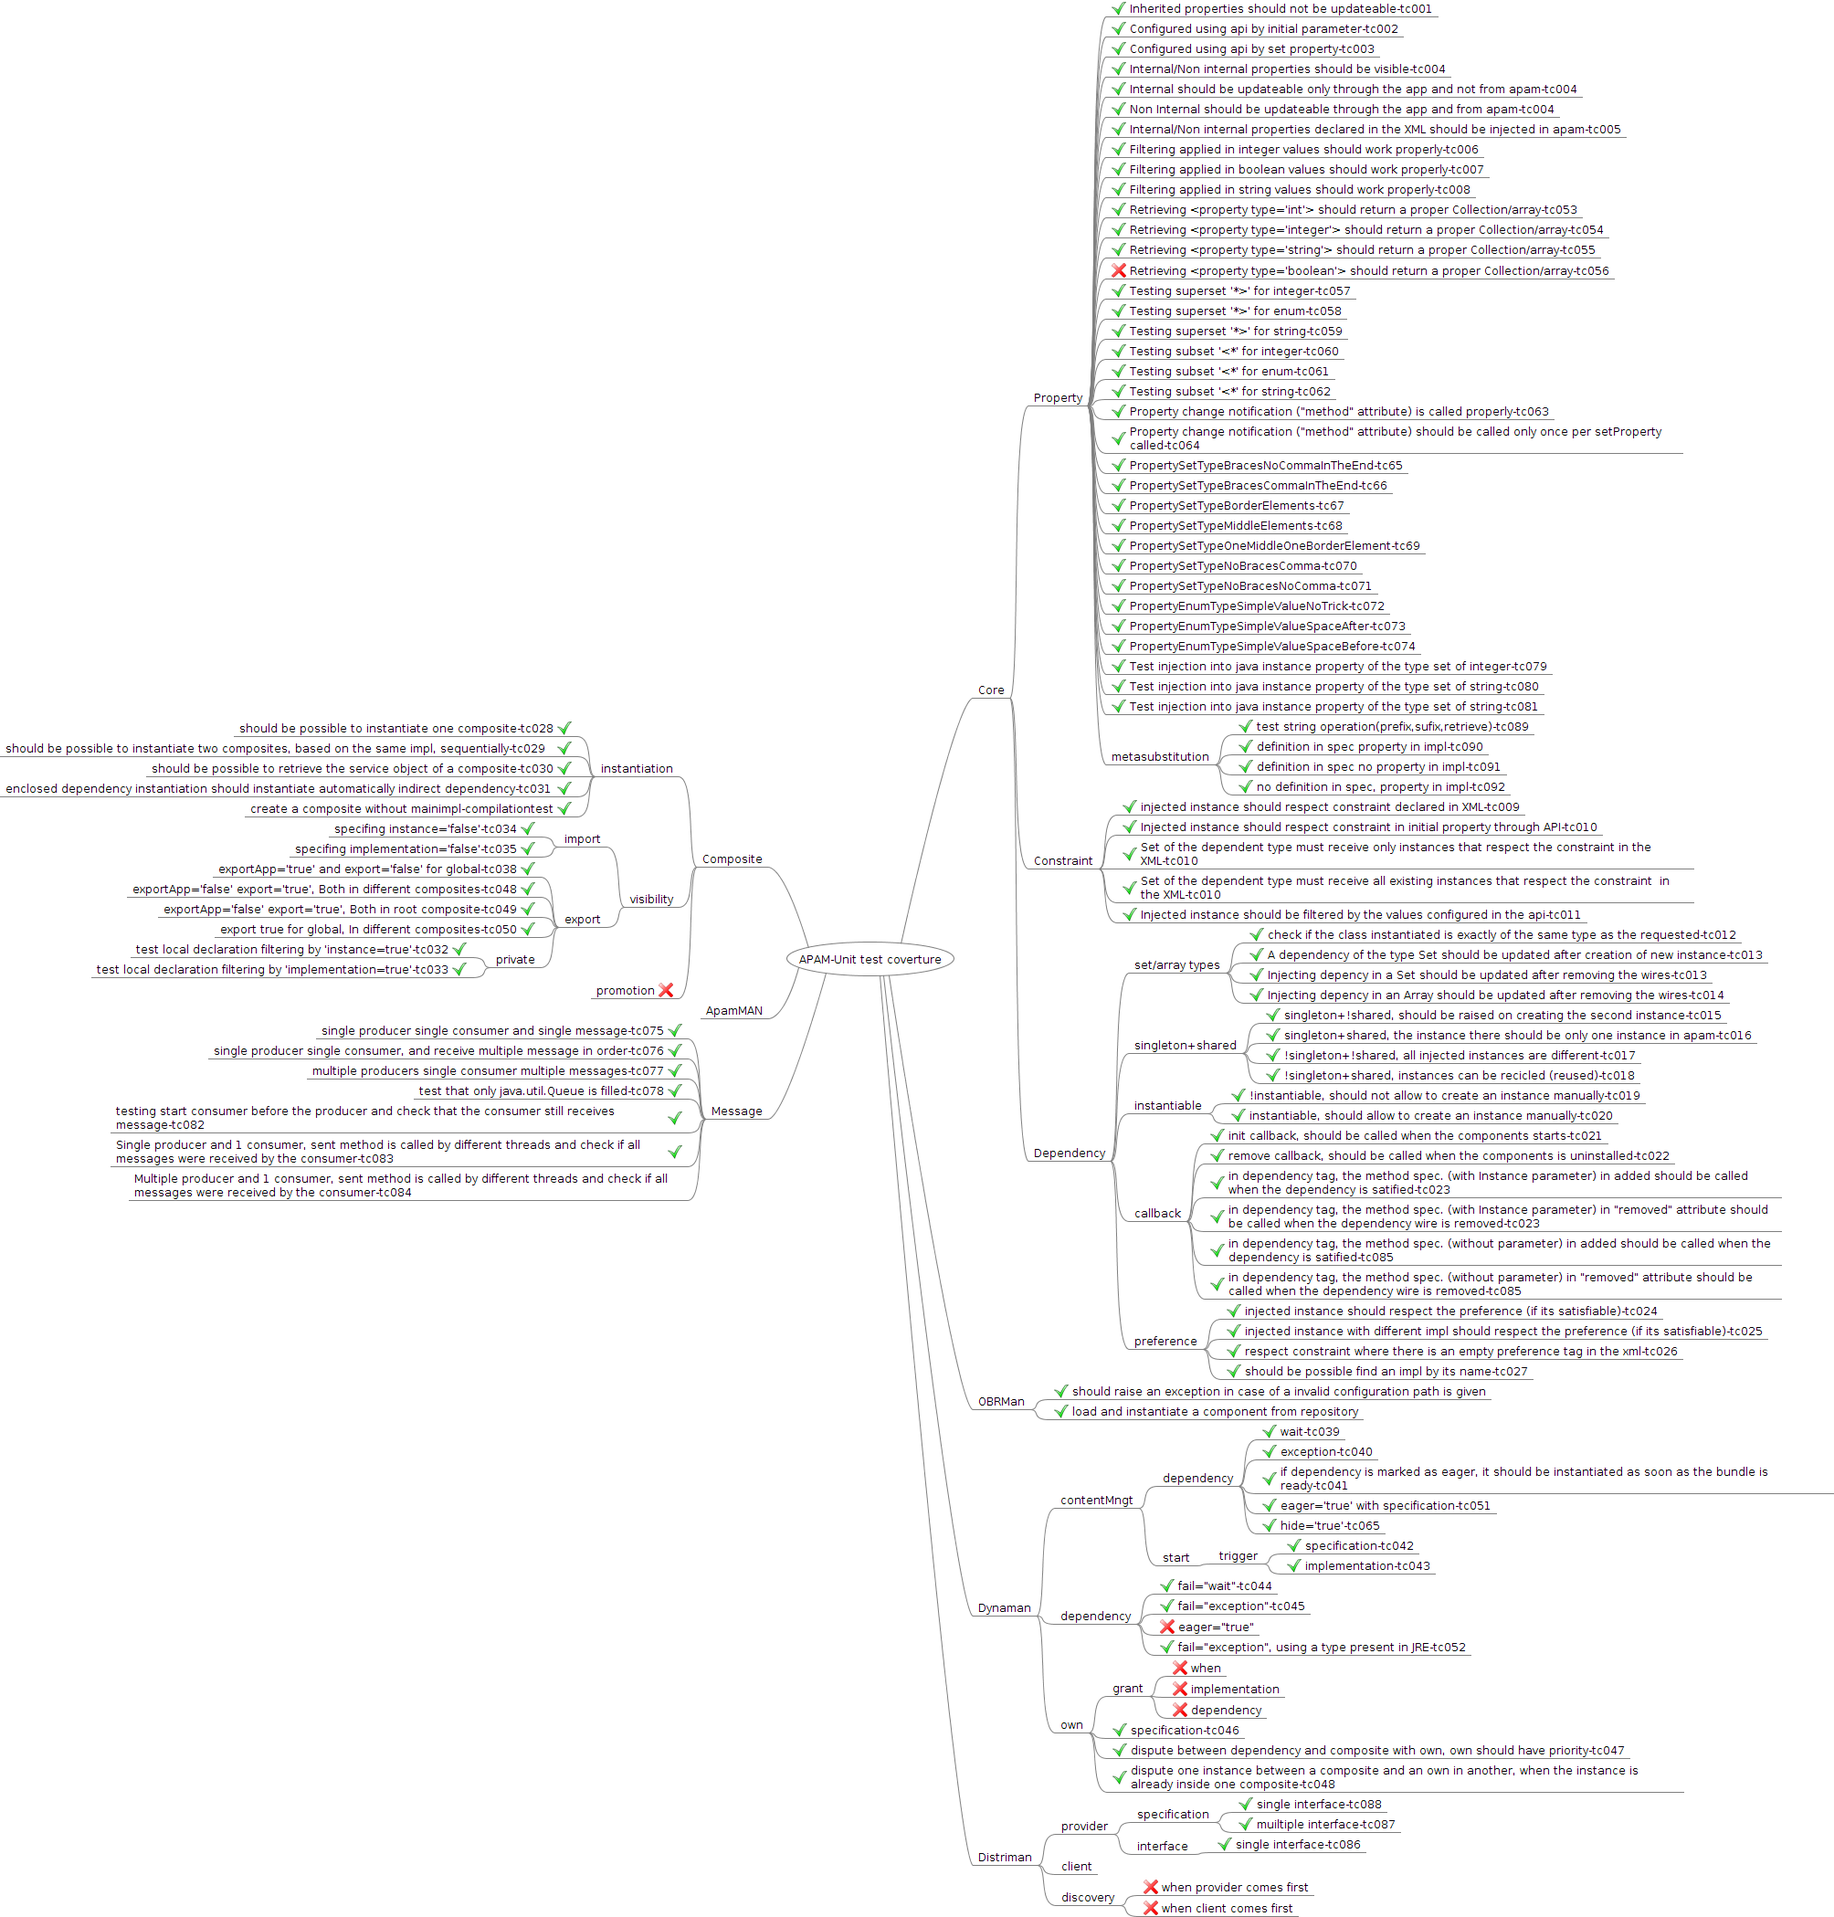
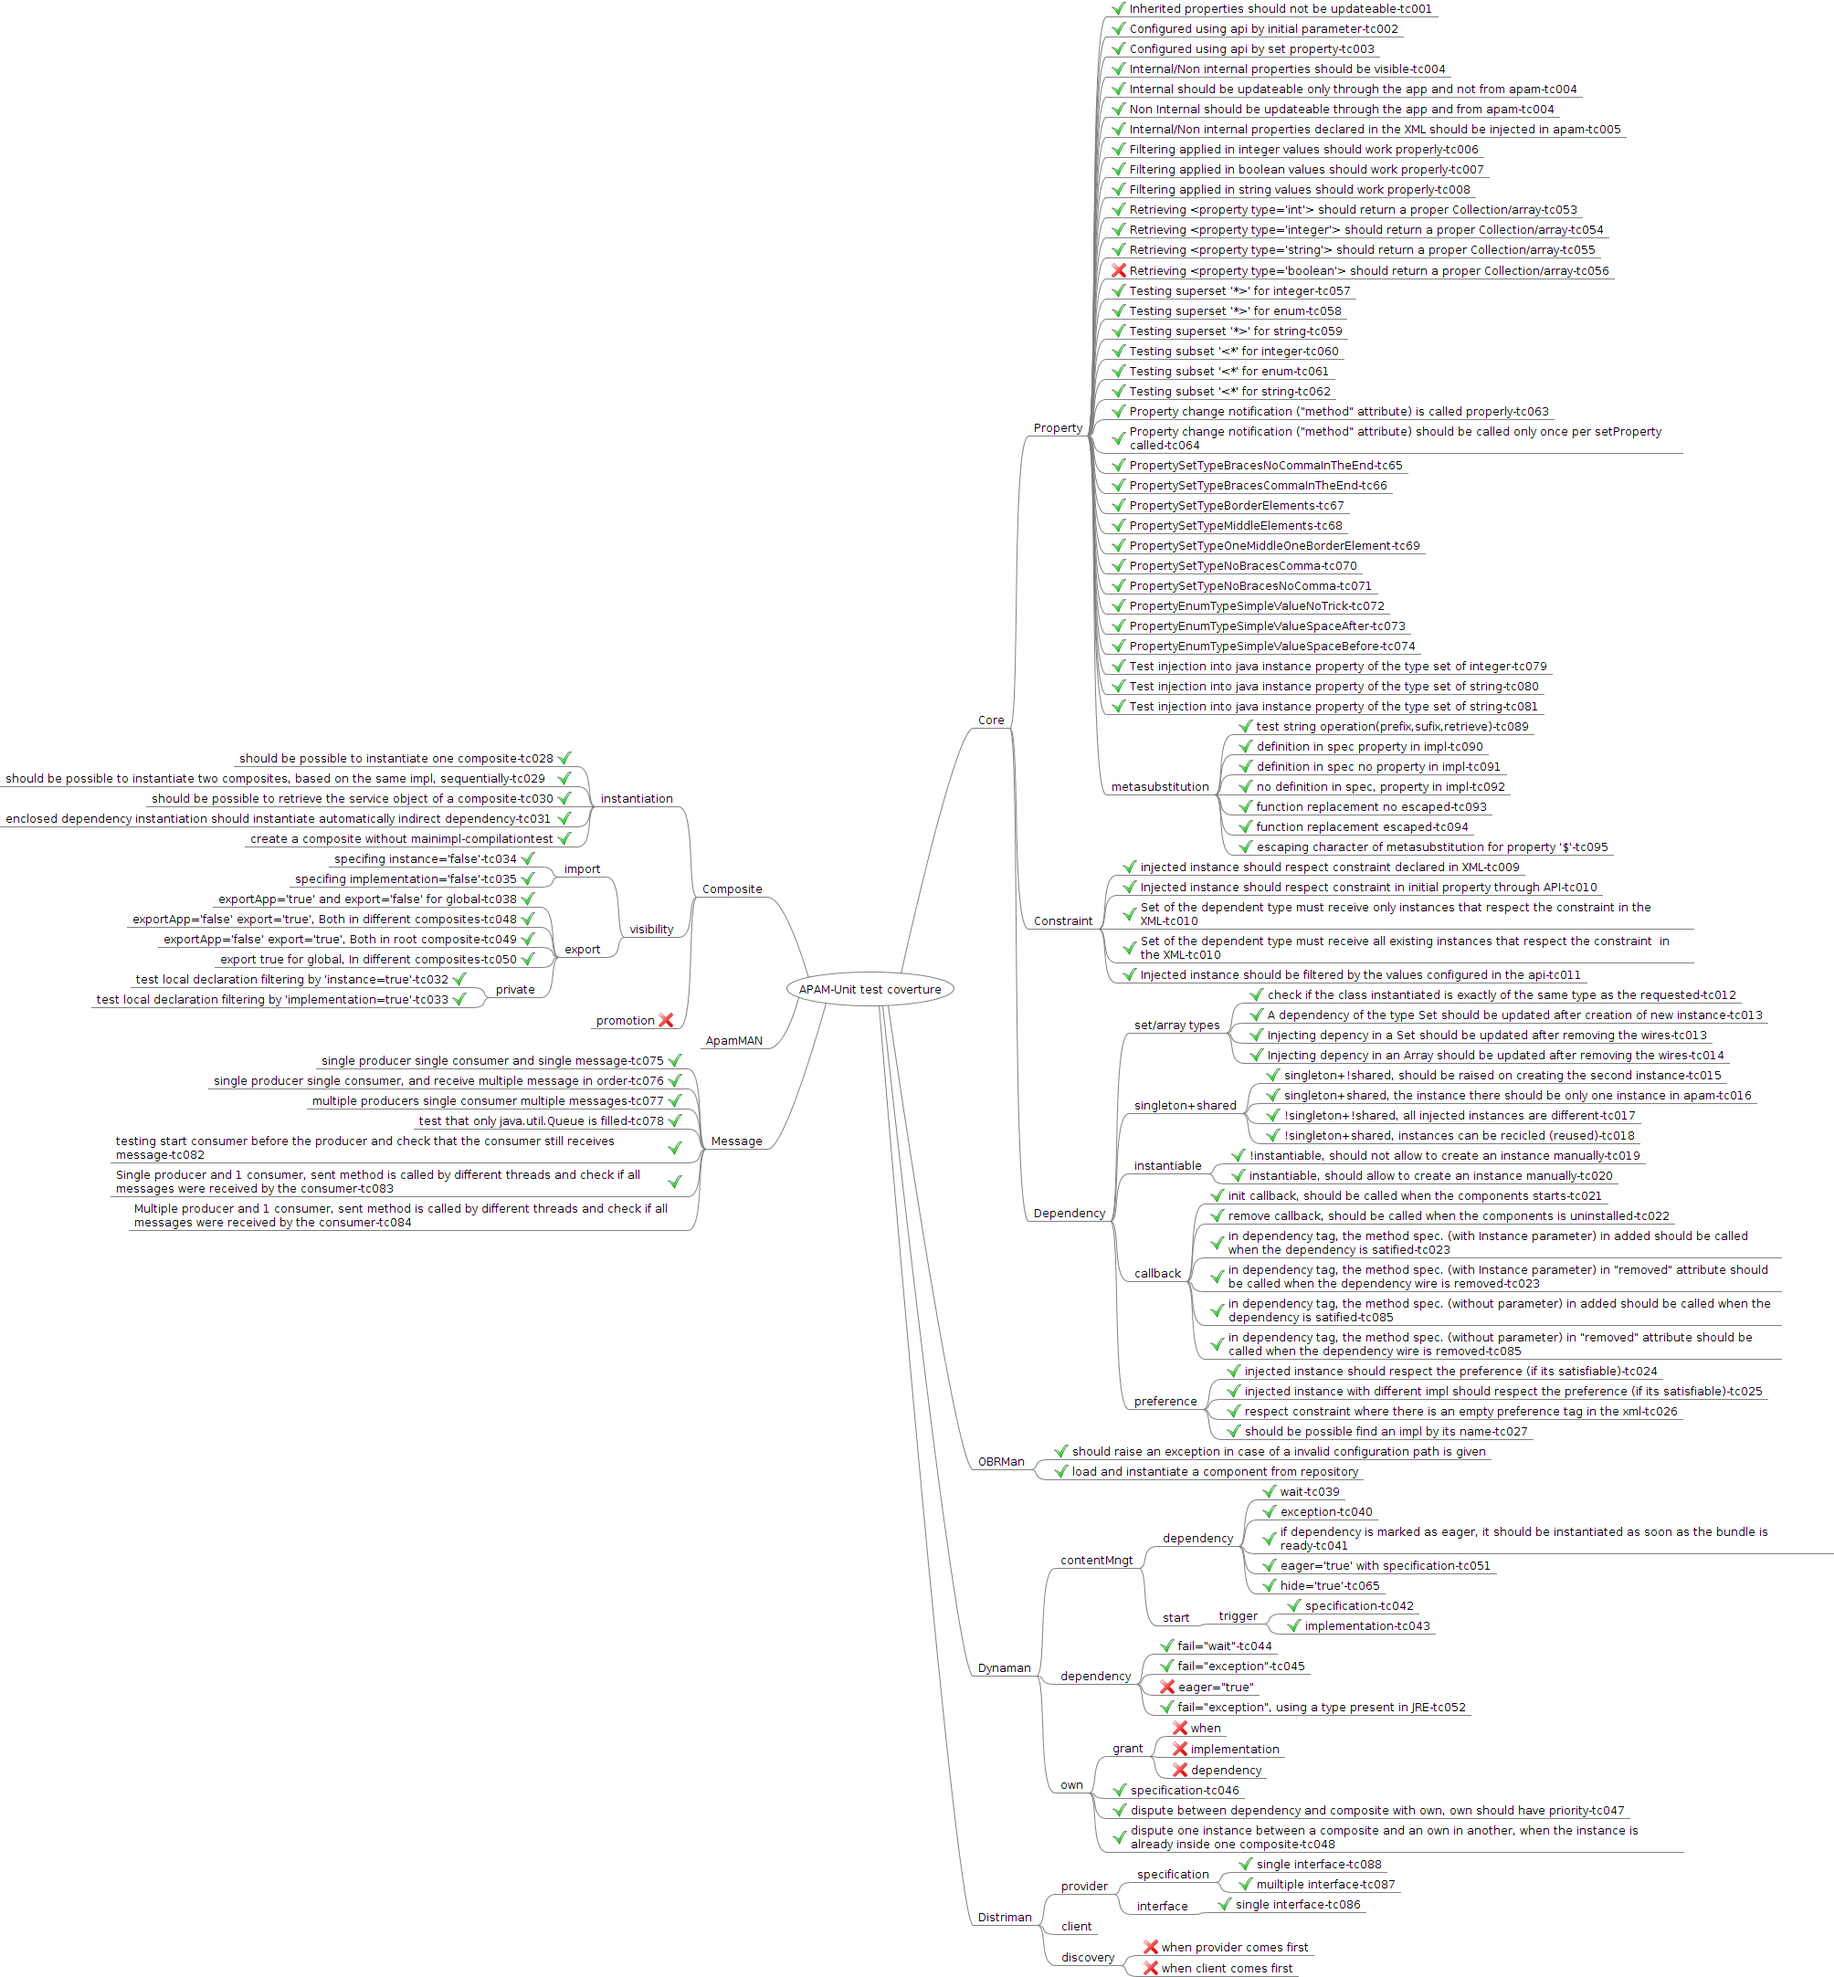
updating diagrams of test cover

diff --git a/documentations/technical/test-coverture/APAM-UnitTest-Coverture-OnFreeMindApp.mm b/documentations/technical/test-coverture/APAM-UnitTest-Coverture-OnFreeMindApp.mm
@@ -121,6 +121,15 @@
 <node CREATED="1365161565201" ID="ID_1981761730" MODIFIED="1365161586478" TEXT="no definition in spec, property in impl-tc092">
 <icon BUILTIN="button_ok"/>
 </node>
+<node CREATED="1365593740126" ID="ID_952131145" MODIFIED="1365593776819" TEXT="function replacement no escaped-tc093">
+<icon BUILTIN="button_ok"/>
+</node>
+<node CREATED="1365593759047" ID="ID_1069564501" MODIFIED="1365593773674" TEXT="function replacement escaped-tc094">
+<icon BUILTIN="button_ok"/>
+</node>
+<node CREATED="1365595005815" ID="ID_1423059910" MODIFIED="1365595037123" TEXT="escaping character of metasubstitution for property &apos;$&apos;-tc095">
+<icon BUILTIN="button_ok"/>
+</node>
 </node>
 </node>
 <node CREATED="1353066008853" ID="ID_82303023" MODIFIED="1353071077628" TEXT="Constraint">
